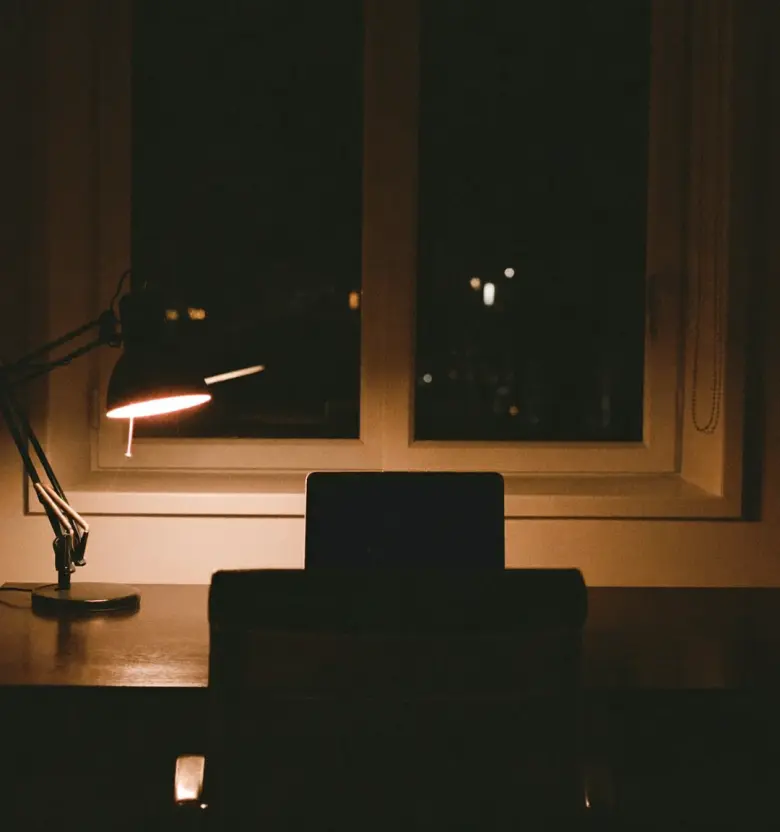
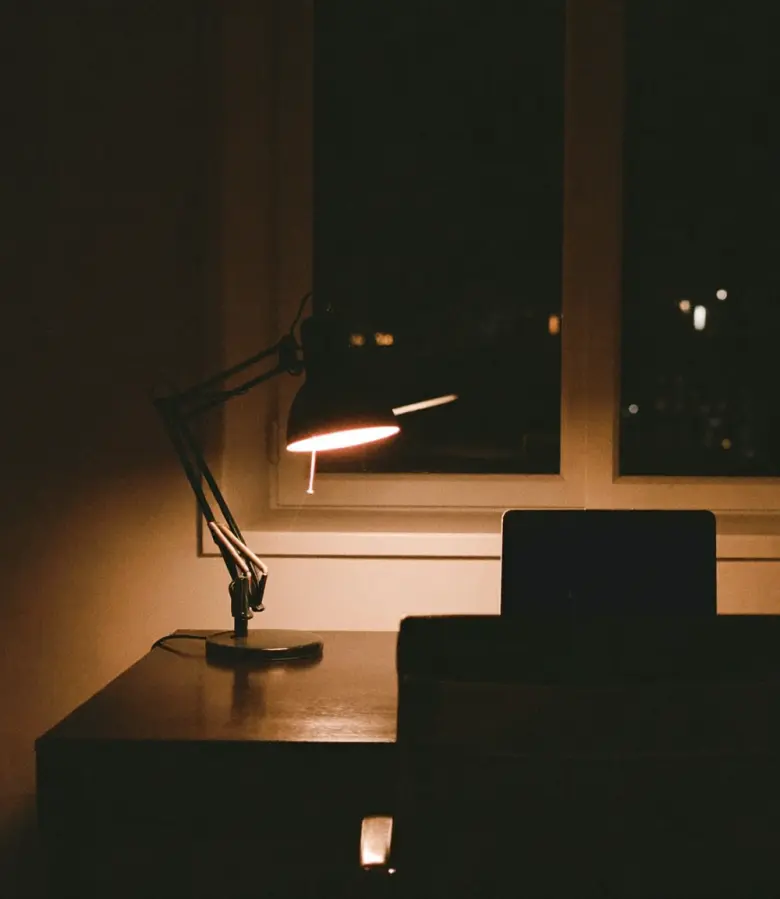
About: mobile hero crop, principles border

diff --git a/about/index.html b/about/index.html
@@ -19,7 +19,7 @@
 <link rel="preload" href="/assets/fonts/instrument-normal.woff2" as="font" type="font/woff2" crossorigin>
 <link rel="preload" href="/assets/fonts/inter-normal.woff2" as="font" type="font/woff2" crossorigin>
 <link rel="stylesheet" href="/rebuild/rebuild.css?v=6">
-<link rel="stylesheet" href="about.css?v=1">
+<link rel="stylesheet" href="about.css?v=2">
 <script type="application/ld+json">{"@context":"https://schema.org","@type":"ProfilePage","url":"https://thetenderdesk.co.uk/about/","mainEntity":{"@type":"Person","@id":"https://thetenderdesk.co.uk/about/#yusuf","name":"Yusuf Imthiyas","jobTitle":"Founder","worksFor":{"@id":"https://thetenderdesk.co.uk/#business"},"alumniOf":{"@type":"CollegeOrUniversity","name":"London South Bank University"},"email":"hello@thetenderdesk.co.uk","knowsAbout":["Website design","Tender writing","Google Ads","AI automation","Chemical engineering"]}}</script>
 </head>
 <body>
@@ -32,7 +32,7 @@
 
 <main>
 <section class="a-hero">
-  <div class="bg"><picture><source media="(max-width:760px)" srcset="img/hero-m.webp"><img src="img/hero.webp" alt="A desk lit by one lamp late at night" fetchpriority="high"></picture></div>
+  <div class="bg"><picture><source media="(max-width:760px)" srcset="img/hero-m.webp?v=2"><img src="img/hero.webp" alt="A desk lit by one lamp late at night" fetchpriority="high"></picture></div>
   <div class="a-copy">
     <p class="kicker" data-scramble>About. The person behind the desk.</p>
     <h1><span>One person.</span> <span><em>One standard.</em></span></h1>

diff --git a/about/about.css b/about/about.css
@@ -8,6 +8,7 @@
 .a-copy h1{font-size:clamp(58px,10vw,160px)}
 .a-copy h1 span{display:block;opacity:0;transform:translateY(40px);transition:opacity 1.1s cubic-bezier(.2,.7,.2,1),transform 1.1s cubic-bezier(.2,.7,.2,1)}
 .a-copy h1 span+span{transition-delay:.15s}
+.a-copy .kicker{color:#c9c3b9}
 .a-copy .kicker,.a-copy .sub{opacity:0;transform:translateY(20px);transition:opacity 1s .35s,transform 1s .35s cubic-bezier(.2,.7,.2,1)}
 .ready .a-copy h1 span,.ready .a-copy .kicker,.ready .a-copy .sub{opacity:1;transform:none}
 .a-copy .sub{max-width:460px;color:#c9c3b9;margin-top:24px;font-size:16px;text-shadow:0 1px 20px rgba(0,0,0,.6)}
@@ -80,7 +81,7 @@
   .svc a{grid-template-columns:40px 1fr;padding:24px 0}
   .svc span.t{grid-column:2;text-align:left;margin-top:-6px}
   .prin{grid-template-columns:1fr}
-  .prin div,.prin div:nth-child(even){padding:30px 0;border-right:0}
+  .prin div,.prin div:nth-child(n){padding:30px 0;border-right:0}
   .band{height:56vh}
   .end{padding:14vh 22px 130px}
 }
